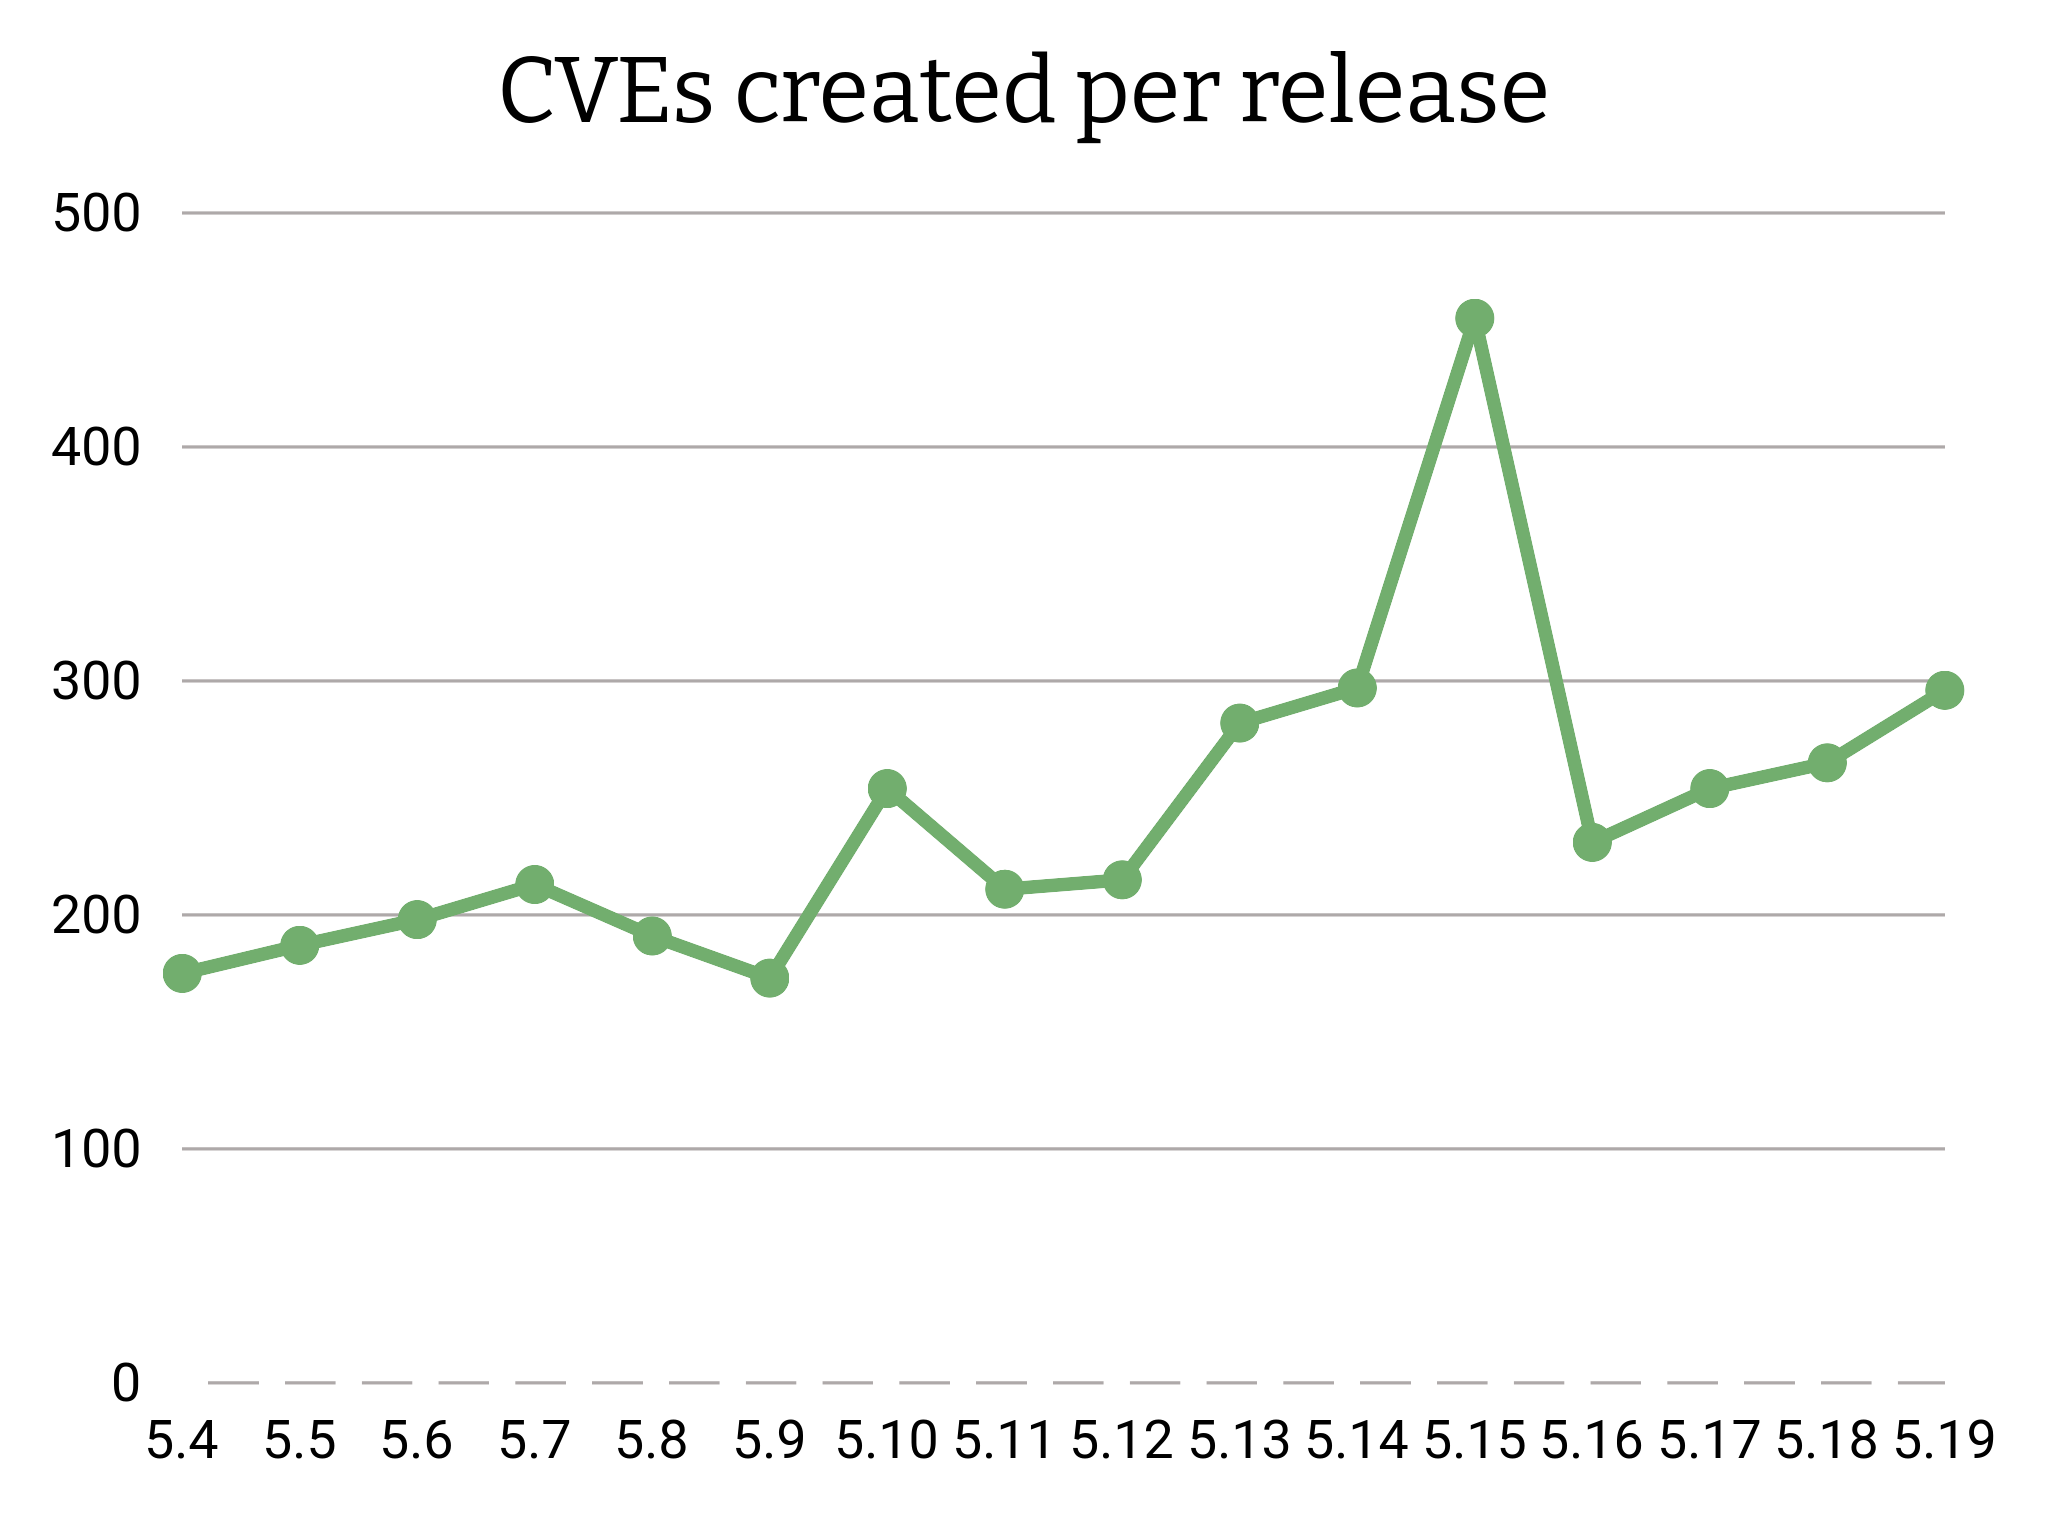
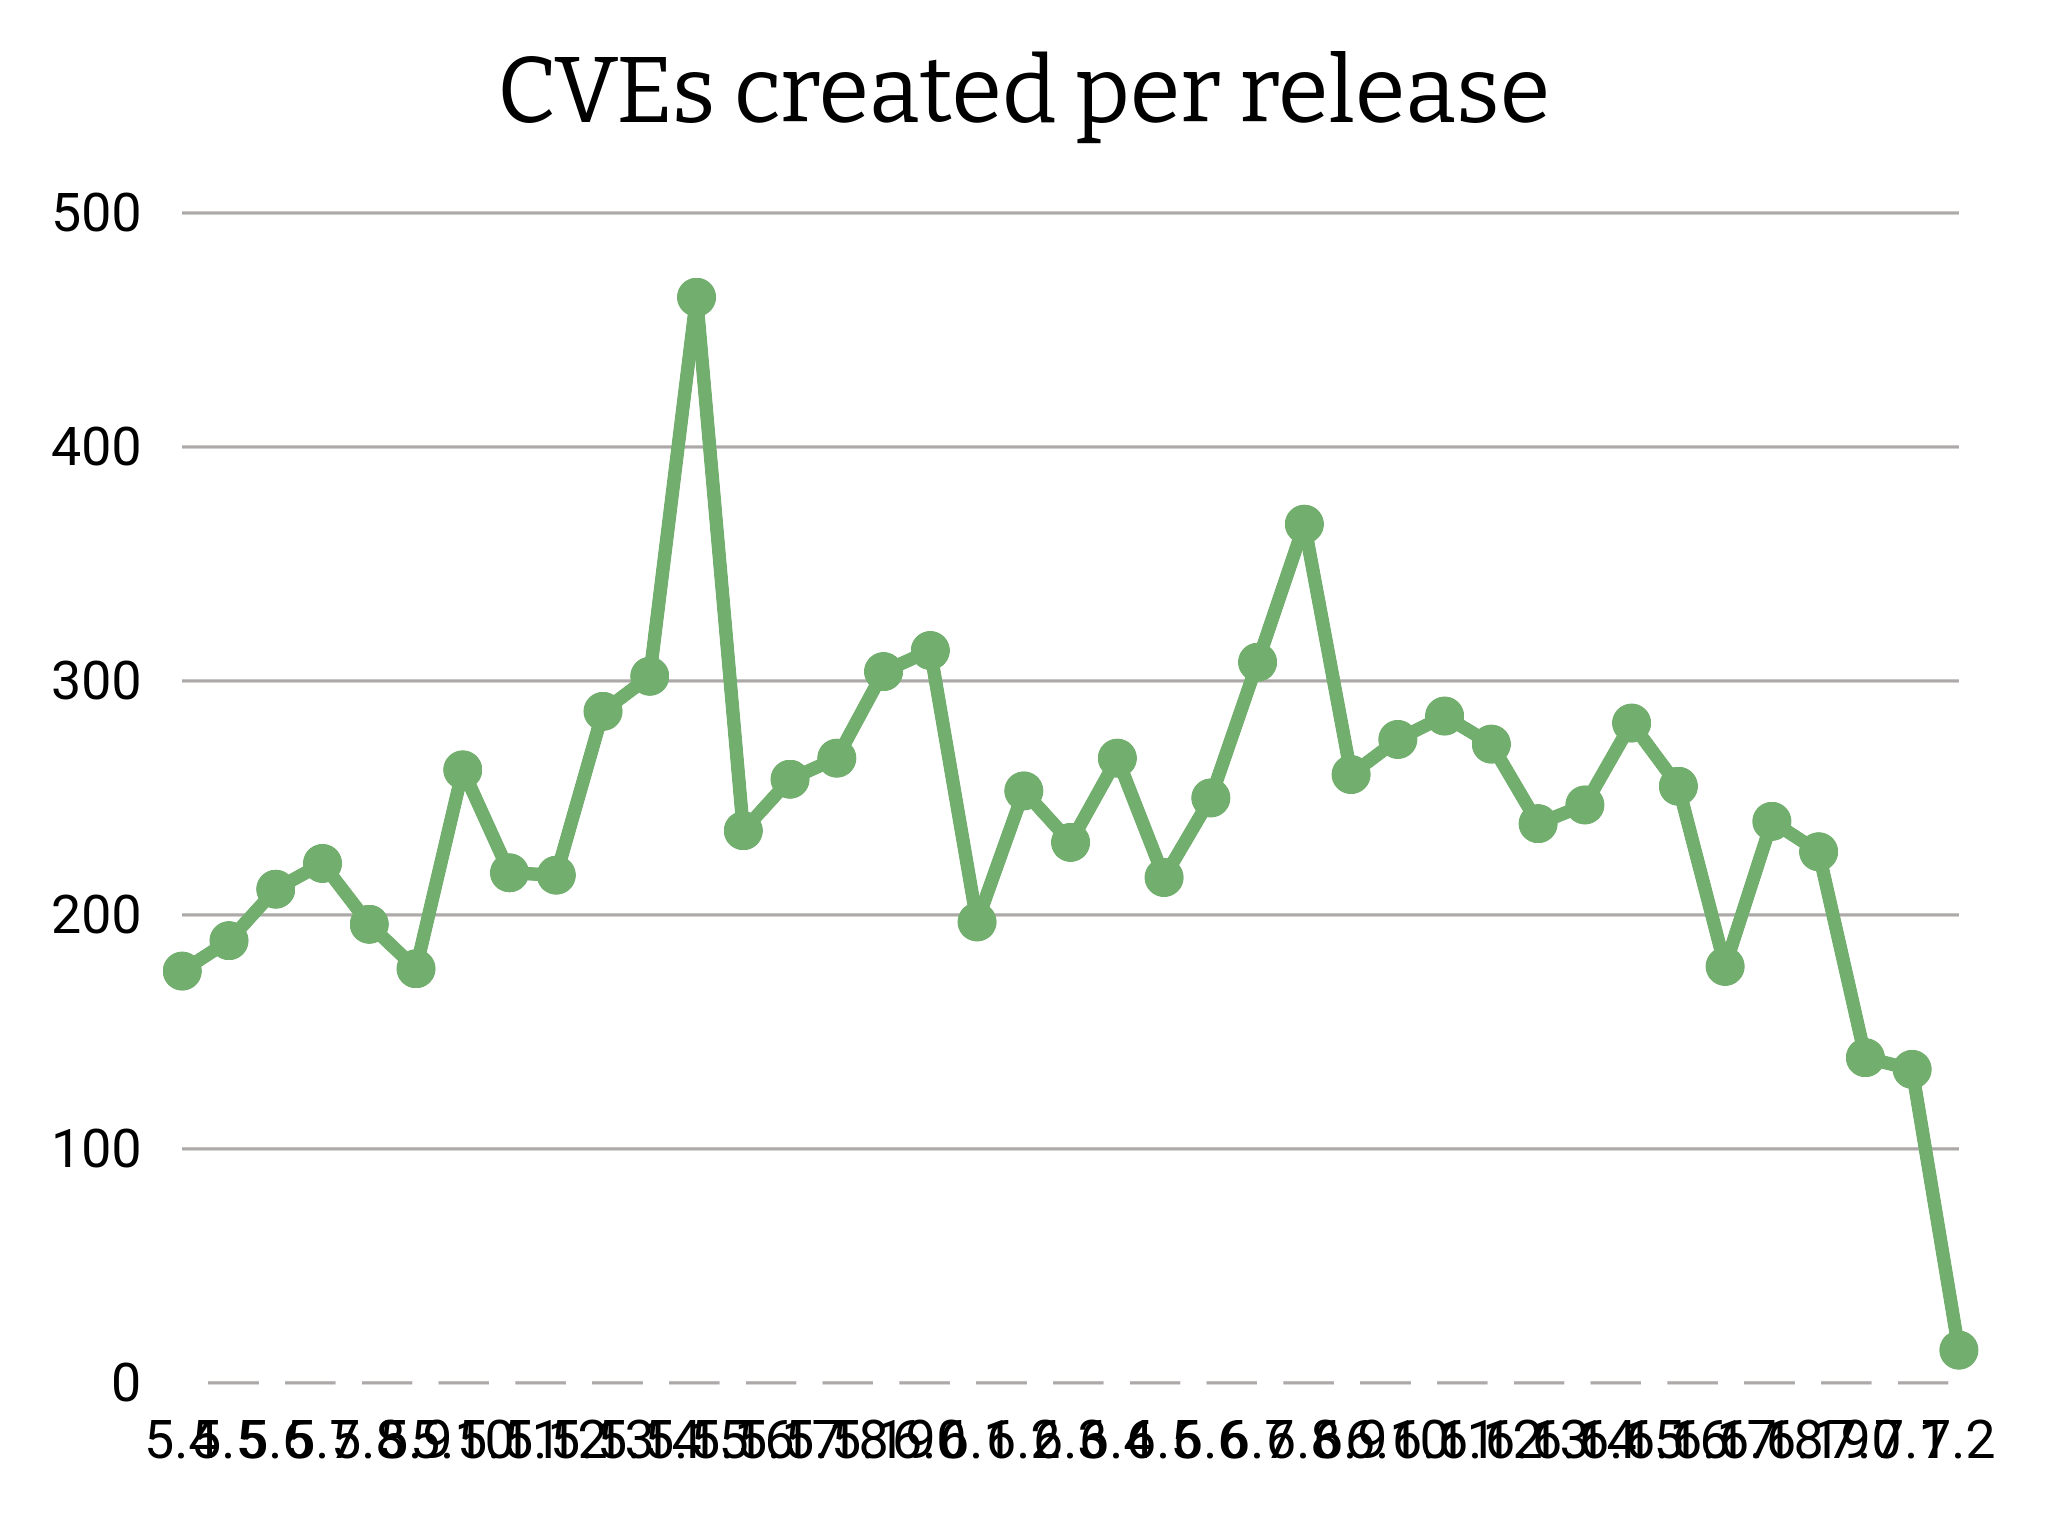
stat updates

diff --git a/graphs/patches_per_release/cves_per_release.rb b/graphs/patches_per_release/cves_per_release.rb
@@ -47,8 +47,8 @@ g.data(' ', [
         545,
         1247,
         1302,
-        2103,
-        104],
+        2105,
+        545],
 	'#72AE6E') # green
 
 g.write('cves_fixed_per_release.png')
@@ -72,7 +72,30 @@ g.labels = {
   12 => '5.16',
   13 => '5.17',
   14 => '5.18',
-  15 => '5.19'
+  15 => '5.19',
+  16 => '6.0',
+  17 => '6.1',
+  18 => '6.2',
+  19 => '6.3',
+  20 => '6.4',
+  21 => '6.5',
+  22 => '6.6',
+  23 => '6.7',
+  24 => '6.8',
+  25 => '6.9',
+  26 => '6.10',
+  27 => '6.11',
+  28 => '6.12',
+  29 => '6.13',
+  30 => '6.14',
+  31 => '6.15',
+  32 => '6.16',
+  33 => '6.17',
+  34 => '6.18',
+  35 => '6.19',
+  36 => '7.0',
+  37 => '7.1',
+  38 => '7.2',
 }
 
 g.theme = Gruff::Themes::PASTEL
@@ -89,23 +112,46 @@ g.baseline_color = 'white'
 #g.hide_lines = true
 
 g.data(' ', [
-        175,
-        187,
-        198,
-        213,
-        191,
-        173,
-        254,
-        211,
-        215,
-        282,
-        297,
-        455,
-        231,
-        254,
-        265,
-        296],
-	'#72AE6E') # green
+  176,  # 5.4
+  189,  # 5.5
+  211,  # 5.6
+  222,  # 5.7
+  196,  # 5.8
+  177,  # 5.9
+  262,  # 5.10
+  218,  # 5.11
+  217,  # 5.12
+  287,  # 5.13
+  302,  # 5.14
+  464,  # 5.15
+  236,  # 5.16
+  258,  # 5.17
+  267,  # 5.18
+  304,  # 5.19
+  313,  # 6.0
+  197,  # 6.1
+  253,  # 6.2
+  231,  # 6.3
+  267,  # 6.4
+  216,  # 6.5
+  250,  # 6.6
+  308,  # 6.7
+  367,  # 6.8
+  260,  # 6.9
+  275,  # 6.10
+  285,  # 6.11
+  273,  # 6.12
+  239,  # 6.13
+  247,  # 6.14
+  282,  # 6.15
+  255,  # 6.16
+  178,  # 6.17
+  240,  # 6.18
+  227,  # 6.19
+  139,  # 7.0
+  134,  # 7.1
+  14],  # 7.2
+  '#72AE6E') # green
 
 g.write('cves_created_per_release.png')
 
